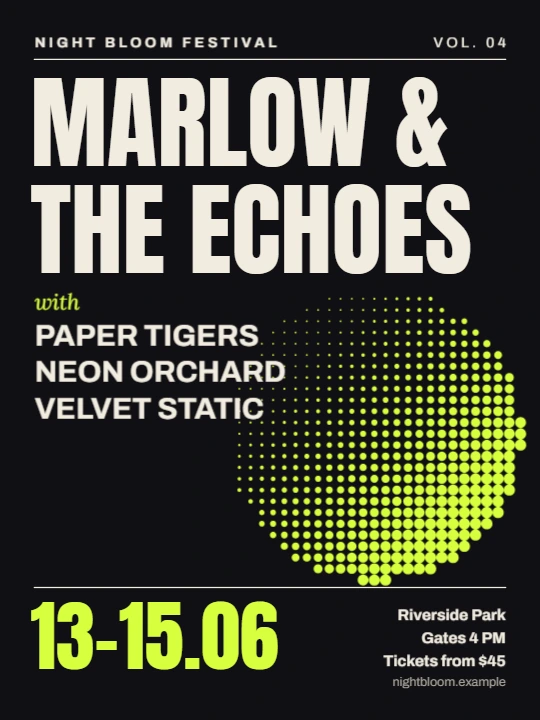
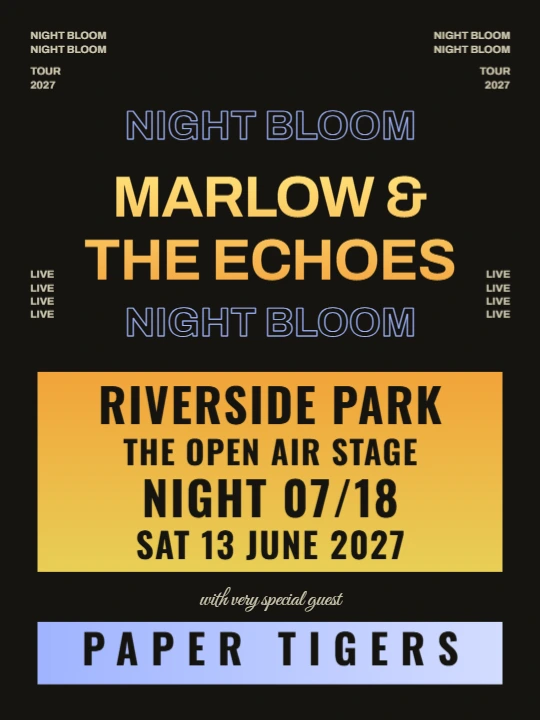
Concert poster template after the popular tour posters
Near-black with tiny repeated words in the corners, the act in heavy
gradient type between two outlined words, the venue and dates on a
warm gradient band, and the special guest on a band of its own.

diff --git a/frontend/scripts/templates/designs/concertPoster.ts b/frontend/scripts/templates/designs/concertPoster.ts
@@ -1,62 +1,61 @@
-import { DocBuilder, circlePath } from '../kit'
+import { DocBuilder } from '../kit'
 import type { TemplateDesign } from '../registry'
 
-// Type-led gig poster: the headliner dominates, the support acts and details follow in a clear hierarchy,
-// with a halftone sun for texture. Near-black, cream and one acid accent.
+// After the tour posters people buy most right now: near-black, tiny repeated words in the corners, the act in huge
+// heavy type with a warm gradient between two outlined words, the city, venue and dates in condensed capitals on a
+// gradient band, and the special guest on a band of its own.
 const W = 1728
 const H = 2304
-const NIGHT = '#111014'
-const CREAM = '#f2ece0'
-const ACID = '#d7ff3d'
-const GREY = '#a9a39a'
-
-/** Dots on a grid inside a circle, growing towards its lower right: one path, so it moves as one shape. */
-function halftone(cx: number, cy: number, r: number, step: number): string {
-  const parts: string[] = []
-  for (let y = cy - r; y <= cy + r; y += step) {
-    for (let x = cx - r; x <= cx + r; x += step) {
-      const d = Math.hypot(x - cx, y - cy)
-      if (d > r) continue
-      const t = Math.min(1, Math.max(0, ((x - cx) + (y - cy)) / (2 * r) + 0.5))
-      const dot = step * (0.08 + 0.42 * t)
-      parts.push(circlePath(x, y, dot))
-    }
-  }
-  return parts.join(' ')
-}
+const NIGHT = '#151410'
+const SMALL = '#cfc7ae'
+const INK = '#151410'
+const GOLD = ['#ffe27a', '#f4a640'] as const
+const BAND = ['#f2a33a', '#e8cf55'] as const
+const SKY = ['#9fb4ff', '#d3dcff'] as const
 
 export const concertPoster: TemplateDesign = {
   slug: 'night-bloom-concert-poster',
   title: 'Night Bloom concert poster',
   category: 'posters',
-  tags: ['poster', 'concert', 'festival', 'music', 'gig', 'event', 'print'],
-  description: 'A type-led gig poster for 18 x 24 in print: the headliner huge, the support acts and details in a clear hierarchy, and a halftone sun.',
+  tags: ['poster', 'concert', 'tour', 'festival', 'music', 'gig', 'event', 'print'],
+  description: 'A tour poster for 18 x 24 in print: the act in huge gradient type between two outlined words, the city, venue and date on a warm band, and the special guest below.',
   preset: '',
   featured: true,
   build() {
     const doc = new DocBuilder(this.slug, { width: W, height: H, unit: 'in' })
     const p = doc.page('Poster', { type: 'solid', color: NIGHT })
 
-    // Texture first, so everything else sits on top of it.
-    p.path({ name: 'Halftone sun', d: halftone(1200, 1390, 470, 36), fill: ACID, locked: true })
+    // Tiny repeated words in the corners.
+    const corner = (name: string, x: number, y: number, text: string, align: 'left' | 'right', lines: number): void => {
+      p.text({ name, x, y, w: 420, text, font: 'archivo', bold: true, size: 34, color: SMALL, on: NIGHT, align, upper: true, lh: 1.1, lines })
+    }
+    corner('Corner top left', 96, 96, 'Night Bloom\nNight Bloom', 'left', 2)
+    corner('Corner top right', W - 516, 96, 'Night Bloom\nNight Bloom', 'right', 2)
+    corner('Tour left', 96, 210, 'Tour\n2027', 'left', 2)
+    corner('Tour right', W - 516, 210, 'Tour\n2027', 'right', 2)
+    corner('Live left', 96, 860, 'Live\nLive\nLive\nLive', 'left', 4)
+    corner('Live right', W - 516, 860, 'Live\nLive\nLive\nLive', 'right', 4)
 
-    // Top line.
-    p.text({ name: 'Festival', x: 110, y: 110, w: 900, text: 'Night Bloom Festival', font: 'archivo', bold: true, size: 46, color: CREAM, on: NIGHT, spacing: 240, upper: true, lines: 1 })
-    p.text({ name: 'Edition', x: 1018, y: 110, w: 600, text: 'Vol. 04', font: 'archivo', size: 46, color: CREAM, on: NIGHT, spacing: 240, upper: true, align: 'right', lines: 1 })
-    p.line({ name: 'Top rule', x1: 110, y1: 190, x2: 1618, y2: 190, color: CREAM, width: 4 })
+    // The act, between two outlined words.
+    const outlined = { font: 'archivo' as const, bold: true, size: 130, color: '#00000000', on: NIGHT, align: 'center' as const, upper: true, outline: { color: SKY[0], width: 3 }, decorative: true, lines: 1 }
+    p.text({ name: 'Outlined word above', x: 0, y: 330, w: W, text: 'Night Bloom', ...outlined })
+    p.text({ name: 'Act', x: 80, y: 530, w: W - 160, text: 'Marlow &\nthe Echoes', font: 'archivo', bold: true, size: 186, color: { angle: 90, stops: [[0, GOLD[0]], [1, GOLD[1]]] }, on: NIGHT, align: 'center', upper: true, lh: 0.95, spacing: -20, lines: 2 })
+    p.text({ name: 'Outlined word below', x: 0, y: 960, w: W, text: 'Night Bloom', ...outlined })
 
-    // Headliner.
-    p.text({ name: 'Headliner', x: 96, y: 240, w: 1540, text: 'Marlow & the Echoes', font: 'anton', size: 330, color: CREAM, on: NIGHT, lh: 0.92, upper: true, lines: 2 })
+    // City, venue and date on the band.
+    p.rect({ name: 'Band', x: 120, y: 1190, w: W - 240, h: 640, fill: { angle: 90, stops: [[0, BAND[0]], [1, BAND[1]]] } })
+    const band = (name: string, y: number, text: string, size: number): void => {
+      p.text({ name, x: 150, y, w: W - 300, text, font: 'oswald', bold: true, size, color: INK, on: [BAND[0], BAND[1]], align: 'center', upper: true, lh: 1, spacing: 40, lines: 1 })
+    }
+    band('City', 1226, 'Riverside Park', 150)
+    band('Venue', 1396, 'The Open Air Stage', 104)
+    band('Night', 1524, 'Night 07/18', 150)
+    band('Date', 1690, 'Sat 13 June 2027', 112)
 
-    // Support acts.
-    p.text({ name: 'With', x: 110, y: 930, w: 900, text: 'with', font: 'lora', italic: true, size: 70, color: ACID, on: NIGHT, lines: 1 })
-    p.text({ name: 'Support acts', x: 110, y: 1020, w: 1000, text: 'Paper Tigers\nNeon Orchard\nVelvet Static', font: 'archivo', bold: true, size: 96, color: CREAM, on: NIGHT, lh: 1.08, upper: true, lines: 3 })
-
-    // Dates and details.
-    p.line({ name: 'Bottom rule', x1: 110, y1: 1880, x2: 1618, y2: 1880, color: CREAM, width: 4 })
-    p.text({ name: 'Dates', x: 96, y: 1920, w: 900, text: '13–15.06', font: 'anton', size: 250, color: ACID, on: NIGHT, lh: 1, lines: 1 })
-    p.text({ name: 'Details', x: 1018, y: 1940, w: 600, text: 'Riverside Park\nGates 4 PM\nTickets from $45', font: 'archivo', bold: true, size: 50, color: CREAM, on: NIGHT, lh: 1.3, align: 'right', lines: 3 })
-    p.text({ name: 'Website', x: 1018, y: 2160, w: 600, text: 'nightbloom.example', font: 'archivo', size: 40, color: GREY, on: NIGHT, align: 'right', lines: 1 })
+    // Special guest.
+    p.text({ name: 'Guest intro', x: 0, y: 1872, w: W, text: 'with very special guest', font: 'greatVibes', size: 72, color: SMALL, on: NIGHT, align: 'center', lines: 1 })
+    p.rect({ name: 'Guest band', x: 120, y: 1990, w: W - 240, h: 200, fill: { angle: 0, stops: [[0, SKY[0]], [1, SKY[1]]] } })
+    p.text({ name: 'Guest', x: 150, y: 2014, w: W - 300, text: 'Paper Tigers', font: 'oswald', bold: true, size: 132, color: INK, on: [SKY[0], SKY[1]], align: 'center', upper: true, lh: 1, spacing: 300, lines: 1 })
     return doc
   },
 }
